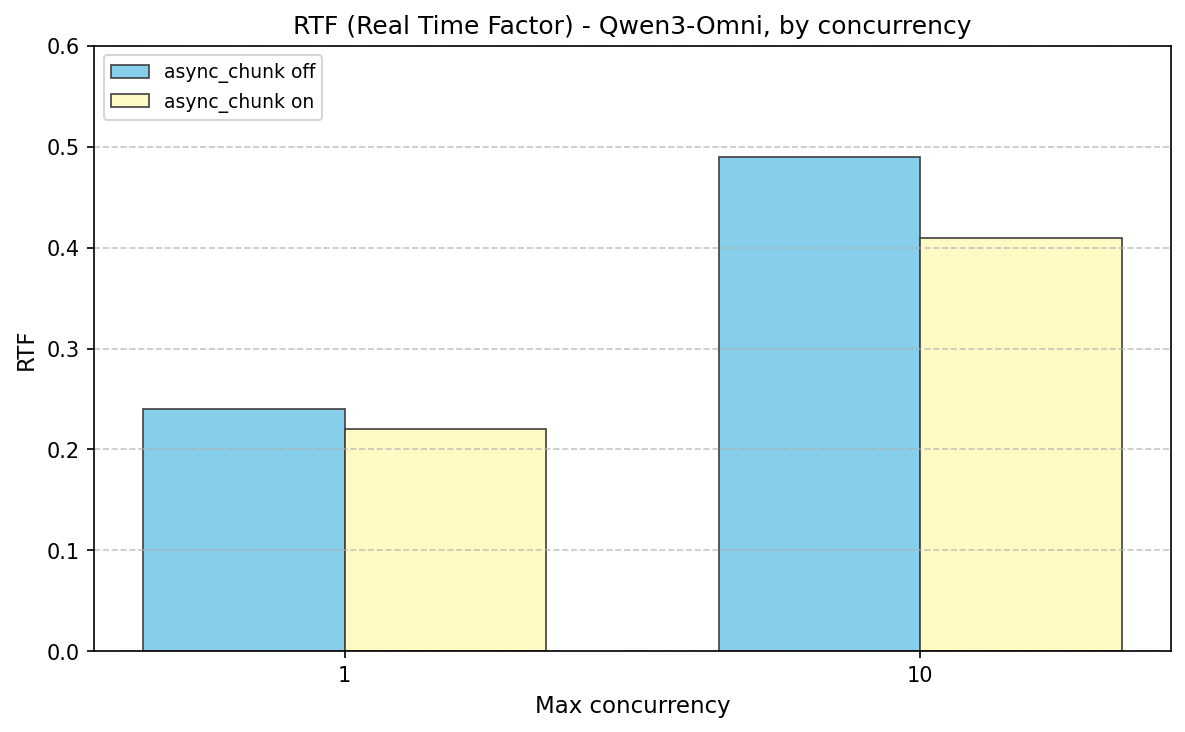
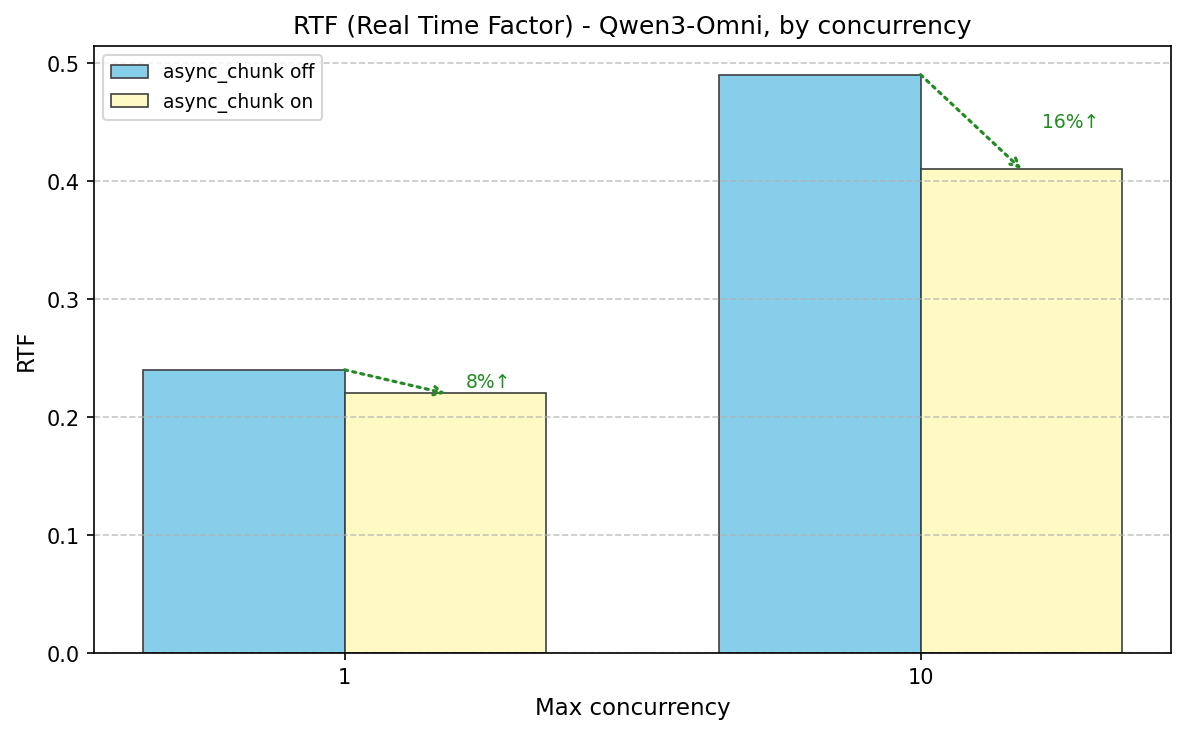
[Docs] update async chunk performance diagram (#1741)

diff --git a/docs/design/feature/async_chunk_design.md b/docs/design/feature/async_chunk_design.md
@@ -67,6 +67,13 @@ Enabling **async_chunk** (False→True) sharply reduces time-to-first-audio (TTF
   </picture>
 </p>
 
+<p align="center">
+  <picture>
+    <source media="(prefers-color-scheme: dark)" src="https://raw.githubusercontent.com/vllm-project/vllm-omni/refs/heads/main/docs/source/performance/qwen3-omni_e2e_performance.png">
+    <img alt="E2E Performance Data Comparison" src="https://raw.githubusercontent.com/vllm-project/vllm-omni/refs/heads/main/docs/source/performance/qwen3-omni_e2e_performance.png" width=100%>
+  </picture>
+</p>
+
 ## Architecture
 ### Data Flow
 
